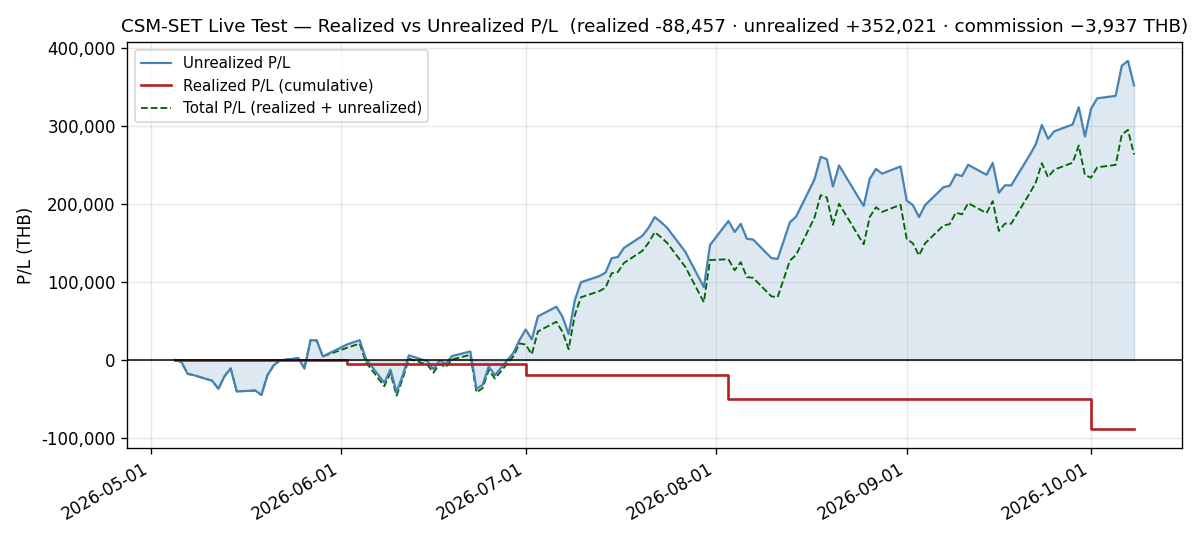
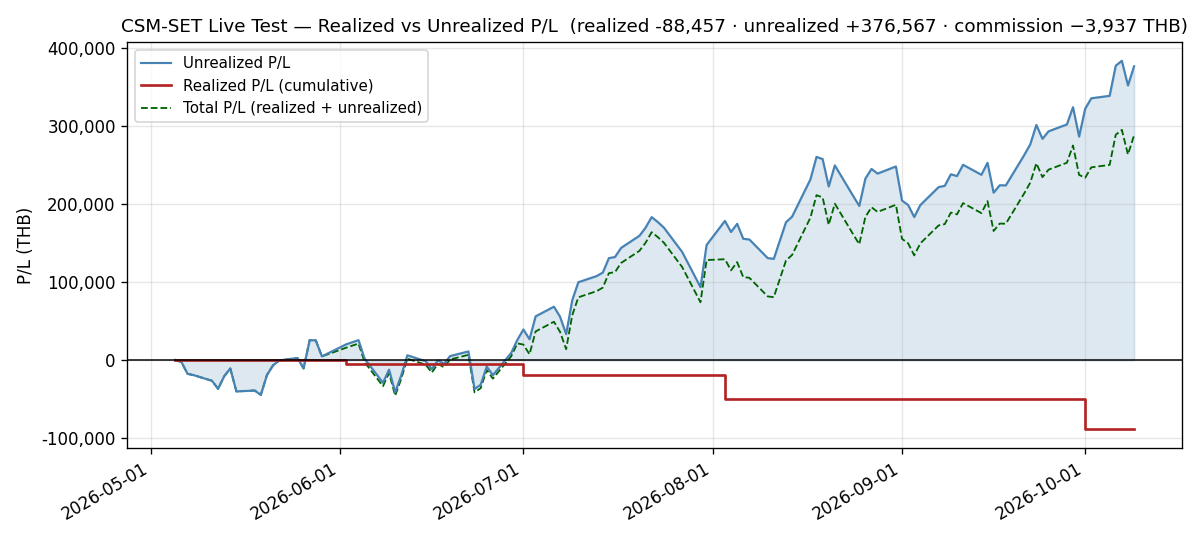
docs(live-test): add daily log for 2026-10-09 — NAV +1.78% back to 6,984.00 below the high; INSET 3,494.98 from the ceiling
NAV 1,406,499.89, +24,546.00 (+1.7762%), recovering most of Thursday's fall; Total Return on NAV
+25.58%; 8 up / 2 down. INSET +5.56% to 4.94 (its highest close since 2026-08-27) is the largest
position again and 3,494.98 THB inside the 15% ceiling; KCE's U.PL back above +100%. Accepted D2
breaches widened: ETRON 36.5802% (22,225.04 over), CNT 4.1925% (11,356.99 under, the deepest of the
breach on a day CNT rose), TK-0279. pnl.csv to 109 rows. Every figure is pre-registration history,
seen, not scored.

Claude-Session: https://claude.ai/code/session_01VKyqnmKmz6Hh9ErHRFMhFr

diff --git a/docs/live-test/daily/2026-10-09.md b/docs/live-test/daily/2026-10-09.md
@@ -1,0 +1,171 @@
+# Daily Log — 2026-10-09 (Friday)
+
+**As of:** 2026-10-09, Asia/Bangkok
+**Phase:** C — Extended Observation
+**Day:** 110 / 53 trading days remaining in 2026
+**Status:** 🔴 **PRE-REGISTRATION HISTORY — SEEN, NOT SCORED.** The operator's 2026-09-11 forward-only decision stands and **no scoring criteria have been pre-registered since**, so every figure below carries that label. 🟢 **NAV closes at 1,406,499.89 THB, up +24,546.00 (+1.7762%)** with no trades, recovering most of Thursday's fall and closing **6,984.00 (−0.4941%) below the 2026-10-07 high**. Total Return on NAV is **+25.58%**. Breadth is **8 up, 2 down, 0 flat** against a SET that rose **+0.4482%**. 🟢 **INSET +5.56% closed at 4.94, its highest close since 2026-08-27, in its best session since 2026-08-18**, supplied 44.49% of the day and is the largest position again. ⚠ **INSET is now 3,494.98 THB inside the 15% ceiling.** 🔴 **Both accepted violations widened: ETRON 36.5802%, 22,225.04 THB over the 35% cap, and CNT 4.1925%, 11,356.99 THB under the 5% floor — the deepest of its breach although CNT rose.**
+
+---
+
+## Execution Summary
+
+**No trades today.** The October rotation was executed at the **2026-10-01 ATO** (SELL MGC, BUY CNT; `configs/live_portfolio.yaml` at `715eeb3`), so the file is unchanged since then and remains valid. Realized P/L for the session is **0.00 THB** and no commission was paid. **Neither end of the band creates a trade, and neither does the sector cap**: both are applied when the book is constructed, and there is no high-water-mark rule. The next rebalance evaluation is **2026-10-30**, twelve sessions away.
+
+---
+
+## Portfolio Snapshot
+
+> 🔴 **Every figure in this section is PRE-REGISTRATION HISTORY — NOT SCORED.** It is produced from the **reconstructed series** (`csm.adapters.hooks._reconstruct_live_equity`, which reprices `configs/live_portfolio.yaml` against `data/processed/prices_latest.parquet`) and reconciled against **`db_gateway.daily_performance`**. Where a number below is quoted from a stored series, the series is named.
+
+`Avg Cost` is the commission-inclusive per-share basis carried from `configs/live_portfolio.yaml` (4-decimal precision); `Cost Basis = shares × Avg Cost`, and `U.PL % = MV / Cost Basis − 1`. Per-symbol values reproduce the broker statement exactly.
+
+| # | Symbol | Shares | Avg Cost | Last Price | Market Value (THB) | Cost Basis (THB) | U.PL % |
+|---|--------|-------:|---------:|-----------:|--------------------:|-----------------:|-------:|
+| 1 | KCE | 2,600 | 39.0655 | 78.75 | 204,750.00 | 101,570.30 | +101.58% |
+| 2 | GUNKUL | 30,800 | 2.9246 | 5.00 | 154,000.00 | 90,077.68 | +70.96% |
+| 3 | INSET | 42,000 | 3.0848 | 4.94 | 207,480.00 | 129,561.60 | +60.14% |
+| 4 | HANA | 3,000 | 35.8070 | 52.25 | 156,750.00 | 107,421.00 | +45.92% |
+| 5 | IRPC | 56,600 | 2.3037 | 2.94 | 166,404.00 | 130,389.42 | +27.62% |
+| 6 | EASTW | 24,000 | 4.2672 | 4.88 | 117,120.00 | 102,412.80 | +14.36% |
+| 7 | EPG | 17,300 | 5.9099 | 6.50 | 112,450.00 | 102,241.27 | +9.98% |
+| 8 | SMT | 20,400 | 5.8097 | 7.50 | 153,000.00 | 118,517.88 | +29.09% |
+| 9 | FORTH | 5,300 | 16.1270 | 14.00 | 74,200.00 | 85,473.10 | −13.19% |
+| 10 | CNT | 18,200 | 3.3456 | 3.24 | 58,968.00 | 60,889.92 | −3.16% |
+
+### Portfolio summary
+
+| Metric | Value |
+|--------|-------|
+| Total Cost Basis | 1,028,554.97 THB |
+| Total Market Value | 1,405,122.00 THB |
+| Unrealized P/L | +376,567.03 THB (+36.61%) |
+| Realized P/L (today) | **0.00 THB** |
+| Realized P/L (cumulative, since inception) | **−88,456.67 THB** |
+| Commission paid (cumulative) | **−3,936.97 THB** |
+
+### Account summary
+
+| Metric | Value |
+|--------|-------|
+| Remaining Cash | 1,377.89 THB |
+| Total NAV | 1,406,499.89 THB |
+| Total Return on NAV | +25.58% |
+
+> **Cost-basis note:** Total Cost Basis is unchanged at **1,028,554.97 THB** since the 2026-10-01 rotation, and the reconciliation delta against Σ per-symbol (`shares × avg_cost`, 4-dp) is **0.00 THB**.
+>
+> ⚠ **Above/below cost: 8 up / 2 down, unchanged**, with only **FORTH** and **CNT** below. **KCE's +101.58%** is above +100% for the second time, after 2026-10-07. **INSET's +60.14%** is its highest since the +61.44% of 2026-08-27, on its highest close since that date.
+>
+> **Dispersion widened to 114.77pp** (KCE +101.58% to FORTH −13.19%), from 110.97pp, at both ends: the leader KCE gained **2.56pp** of cost and the laggard FORTH lost **1.24pp**.
+>
+> **Total P/L check:** realized + unrealized = −88,456.67 + 376,567.03 = **+288,110.36 THB**, up from +263,564.36 by exactly the +24,546.00 session move.
+
+---
+
+## Day-over-Day Change (vs Thursday October 8)
+
+| Symbol | Oct 8 Close | Oct 9 Close | Change | Change % | MV Contribution (THB) |
+|--------|------------:|------------:|-------:|---------:|----------------------:|
+| INSET | 4.68 | 4.94 | +0.26 | +5.56% | +10,920.00 |
+| SMT | 7.20 | 7.50 | +0.30 | +4.17% | +6,120.00 |
+| HANA | 51.25 | 52.25 | +1.00 | +1.95% | +3,000.00 |
+| KCE | 77.75 | 78.75 | +1.00 | +1.29% | +2,600.00 |
+| GUNKUL | 4.92 | 5.00 | +0.08 | +1.63% | +2,464.00 |
+| EPG | 6.40 | 6.50 | +0.10 | +1.56% | +1,730.00 |
+| EASTW | 4.82 | 4.88 | +0.06 | +1.24% | +1,440.00 |
+| CNT | 3.20 | 3.24 | +0.04 | +1.25% | +728.00 |
+| FORTH | 14.20 | 14.00 | -0.20 | -1.41% | -1,060.00 |
+| IRPC | 3.00 | 2.94 | -0.06 | -2.00% | -3,396.00 |
+| **Total** | | | | **+1.78%** | **+24,546.00** |
+
+**Breadth: 8 up, 2 down, 0 flat.**
+
+> The `Change %` on the Total row is the **market-value** change (+24,546.00 / 1,380,576.00 = +1.7780%), not the NAV change (+24,546.00 / 1,381,953.89 = +1.7762%). The two differ only because cash sits in the NAV denominator and not in the market-value one.
+
+**The risers' 29,002.00 outran the fallers' −4,456.00.** **INSET +5.56% (+10,920.00)** closed at **4.94, its highest close since 2026-08-27**, in its best session since 2026-08-18. **SMT +4.17% (+6,120.00)**, **HANA +1.95% (+3,000.00)** and **KCE +1.29% (+2,600.00)** followed, and **CNT +1.25% (+728.00)** recovered part of Thursday's fall. Against them, **IRPC −2.00% (−3,396.00)** had its worst session since 2026-09-30 and **FORTH −1.41% (−1,060.00)** slipped back. **The book rose +1.7762% against a SET that rose +0.4482%**, a **+1.3280pp** difference that is a same-session arithmetic result, not a performance comparison (Market Context).
+
+---
+
+## Market Context
+
+| Indicator | Value | Source |
+|-----------|-------|--------|
+| SET Index | 1,577.65 | tvkit (TradingView) |
+| SET Open / High / Low | 1,573.84 / 1,578.47 / 1,569.59 | tvkit |
+| SET 200-day SMA | 1,494.9204 | tvkit (TradingView) |
+| Regime Estimate | BULL | SET +5.53% above SMA200 |
+
+> ⚠ **This is context, NOT a benchmark comparison, and it must not be read as one.** `SET:SET` is a **price index**; the strategy series above is priced on **dividend-adjusted** bars (since `e04a292`, 2026-08-09). The two are not on the same basis, the difference is one-sided in the strategy's favour, and it is not small — measured 2026-09-11 over 2024-03-19 → 2026-09-10, the dividend adjustment is worth **+12.09 percentage points** on this universe, roughly **+4.8%/yr**. The engine's own benchmark loader is also given **no date bounds**, so it compares **600 index points — from 2024-04-22 in today's panel, a start that moves forward one session per session** — against a strategy series that starts at the 2026-10-01 `entry_date`. **No alpha, excess return or outperformance figure is computed anywhere in this log.**
+
+---
+
+## Regime State
+
+- **Detected regime:** BULL — SET (1,577.65) is above SMA200 (1,494.9204) by +5.5340%
+- **SMA200 position:** 1,494.9204 — SET closing at 1,577.65
+- **3-month return:** −1.65% (window-sensitive — see Notes)
+- **No regime-driven action.** The regime filter is evaluated at the month-end rebalance, not intra-month. The next evaluation is **2026-10-30**.
+
+**The SET path from the 2026-09-08 high reads 1,621.89 → 1,617.89 → 1,615.07 → 1,604.52 → 1,591.07 → 1,578.66 → 1,562.73 → 1,583.34 → 1,584.15 → 1,598.03 → 1,604.44 → 1,610.70 → 1,602.58 → 1,607.63 → 1,602.37 → 1,594.30 → 1,559.01 → 1,563.91 → 1,571.62 → 1,576.45 → 1,582.22 → 1,584.63 → 1,570.61 → 1,577.65** — a **+7.04 point, +0.4482%** session, the index's best since 2026-10-02, leaving it **−2.7277%** below the 2026-09-08 high. Today's range was **8.88 points**, the narrowest since 2026-01-07. **Cushion rose 5.1769% → 5.5340%, a +0.3571pp step**, as SMA200 rose again to **1,494.9204** (+1.6177). **A BULL→BEAR crossing needs the index 82.73 points lower — a further −5.24% at today's SMA200.**
+
+The 3-month figure rose from −2.86% to −1.65%, on the session and because its start bar moved from 2026-07-06 (1,616.88) to 2026-07-07 (1,604.13).
+
+---
+
+## Sector Concentration
+
+Groupings are those of the 2026-10-01 rotation (CONS for CNT, SET-official) and are unchanged today; percentages are directly comparable to the prior session for every sleeve.
+
+| Sector | Market Value (THB) | % of NAV | Limit | Status |
+|--------|--------------------:|---------:|-------|--------|
+| Energy & Utilities (ENERG) | 437,524 | 31.1073% | 35% | OK — 54,750.96 THB of headroom |
+| Electronic Components (ETRON) | 514,500 | 36.5802% | 35% | 🔴 **OVER — 22,225.04 THB, accepted known violation** |
+| ICT | 281,680 | 20.0270% | 35% | OK |
+| Construction Materials (CONMAT) | 112,450 | 7.9950% | 35% | OK |
+| Construction Services (CONS) | 58,968 | 4.1925% | 5% floor | 🔴 **UNDER — 11,356.99 THB, accepted known violation** |
+
+🔴 **ETRON widened its excess again.** It rose **+0.1984pp to 36.5802%**, and the excess grew **19,096.14 → 22,225.04 THB**: the sleeve's market value rose 11,720.00 (SMT +6,120.00, HANA +3,000.00, KCE +2,600.00) while the cap rose 8,591.10 with NAV. [[TK-0279]]
+
+🔴 **CNT's gap widened to the deepest of the breach although CNT rose.** CONS fell **−0.0218pp to 4.1925%**, the lowest weight of the breach, and the gap grew **10,857.69 → 11,356.99 THB**: CNT's +728.00 against a floor that rose 1,227.30 with NAV. **CNT clears at 3.8969, +20.27%.** [[TK-0279]]
+
+**ICT rose +0.3577pp to 20.0270%** on INSET, against FORTH's fall. **ENERG fell −0.5158pp to 31.1073%** on IRPC. **CONMAT eased −0.0168pp to 7.9950%** although EPG rose, because NAV rose faster. The two large sleeves hold **67.6875% of NAV** together.
+
+**At the ceiling end, INSET is the largest position again** — **14.7515%**, 3,494.98 THB inside the 15% ceiling, over at **5.0379 (+1.98%)** — 2,730.00 THB above KCE, at **14.5574%**, 6,224.98 THB inside, over at **81.5667 (+3.58%)**. 🟢 **At the floor end, FORTH is 5.2755%, 3,875.01 THB above the 5% floor, and goes under at 13.2304 (−5.50%).**
+
+---
+
+## Risk Notes
+
+1. 🔴 **PRE-REGISTRATION HISTORY — SEEN, NOT SCORED (operator decision, 2026-09-11, unchanged).** The track record restarts forward-only, and **scoring criteria are still pending an operator pre-registration**: checked for this log across the strategy repo, the ticket store and the umbrella, and **none has been recorded**. The EMA100 definition remains deferred to that pre-registration (operator decision D1, 2026-09-30).
+2. 🟢 **NAV rose +24,546.00 (+1.7762%) to 1,406,499.89.** It stands **6,984.00 (−0.4941%) below the 2026-10-07 high** (`daily_performance`). Total Return on NAV is **+25.58%**.
+3. 🔴 **ACCEPTED KNOWN VIOLATION — ETRON 36.5802%, 22,225.04 THB over the 35% cap** (operator decision D2). It widened from 19,096.14 without a trade, as SMT, HANA and KCE rose. **No action is recommended and none has been sized.** [[TK-0279]]
+4. 🔴 **ACCEPTED KNOWN VIOLATION — CNT 4.1925%, 11,356.99 THB under the 5% floor and the whole CONS sleeve** (D2), **the deepest of the breach**. It widened from 10,857.69 on a day CNT rose, because the floor rose faster; CNT clears at **3.8969 (+20.27%)**. [[TK-0279]]
+5. ⚠ **INSET IS 3,494.98 THB FROM THE 15% CEILING.** At **14.7515%** after its best session since 2026-08-18, it goes over at **5.0379 (+1.98%)** — closer than KCE was on 2026-10-07 (4,672.58 THB). A ceiling breach would sit outside D2, which named only CNT's floor breach and ETRON's cap breach; like every band breach, it would produce no trade before the 2026-10-30 construction. **No action is recommended and none has been sized.** [[TK-0279]]
+6. 🟢 **`equity_curve` and `daily_performance` agree on the new day**, both **1,406,499.89**. The 2026-10-01 rows still differ by 2,385.81 by design (post-trade against pre-trade).
+7. 🟢 **Today's `daily_return` (+1.7762%) equals this log's headline.** ⚠ `cumulative_return` is anchored to the 2026-10-01 `entry_date` and reads **+4.01%** against a true **+25.58%**, and `combined_drawdown` still reads **−2.23%** — the maximum drawdown inside the post-`entry_date` window, set on 2026-10-08, not today's −0.49% distance from the high. Both are the documented truncations, not new defects.
+8. 🟢 **Circuit-breaker buffer 24.35% of NAV.** The 5% breaker trips at **1,064,000 THB**; NAV sits **+342,499.89 above it**. **NAV is 0.49% off peak.** The rolling `circuit_breaker.trigger_threshold` is −10% over 60 days; −0.49% is clear.
+9. 🟢 **The refresh ran clean**: attempt 1 recovered all 201 universe symbols (`requested=201 recovered=201 still_failing=0`) in **125.942s**, and **no symbol failed** (`failures=0`, `held_symbols_failed=0`). The container has not restarted since the 2026-10-06 reboots.
+10. 🟢 **The uncredited dividend total holds at 8,927.00 THB** — KCE 1,560.00, INSET 2,100.00, MGC 2,208.00, FORTH 795.00, IRPC 2,264.00. **0.63% of NAV** and **3.10%** of the +288,110.36 total P/L. There is still no dividend-accrual path anywhere in the book. Carried to the operator's October decision.
+11. **INFRA (carried) — the container publishes `:8100` on all interfaces while private-mode auth is disabled.** `CSM_API_KEY` is absent from the container environment and `CSM_PUBLIC_MODE=false`. **Risk tier: low-moderate and LAN-scoped.** Two low-risk options, operator's call: bind to `127.0.0.1:8100:8000`, or set `CSM_API_KEY`. A recreate is required for the first and has not occurred. **Forty-second consecutive log.**
+12. ⚠ **DOC — the `csm-set-daily-log` skill's `daily_return` guidance remains stale.** Its Step 3 still calls the field *"an open defect, not yet fixed in code"*; **it was fixed 2026-09-02**. Today `daily_return` reads **+1.7762%** and agrees with this log's headline exactly. **Twenty-fourth log to carry this.**
+13. **Open decisions carried to the October evaluation (2026-10-30, twelve sessions away)**: the EMA100 definition (D1), the drift question at every end of the bands (Risk Notes 3, 4, 5; [[TK-0279]]), fix-notional-not-shares, restate-vs-cutover for price history, and dividend accrual (Risk Note 10).
+
+---
+
+## Notes
+
+- **Scheduled refresh completed via APScheduler with zero failures.** `"Scheduled daily_refresh completed"` at **2026-10-09T11:02:07Z** (18:02 BKK) — the 18:00 cron firing, not a manual `POST /api/v1/scheduler/run/daily_refresh`. Receipt: `symbols_fetched=211, failures=0, duration_seconds=125.942, held_symbols_fetched=10, held_symbols_failed=0, retry_attempts_used=0, index_fetched=true`, corroborated by `results/.tmp/last_refresh.json`. The held phase ended `requested=10 recovered=10 still_failing=0` at 11:00:07Z. The next run is scheduled for **2026-10-12 18:00 +07**.
+- **The container has run since the 2026-10-06 reboots** (`StartedAt` 2026-10-06T03:46:34Z, no restart since; `Created` 2026-09-01, unchanged), and the host has not rebooted again (`uptime -s` 2026-10-06 10:46:02).
+- **`SET:THCOM` was fetched with 600 bars again.**
+- **The price panel and the prior log agree on all ten names**, so **nothing was restated**.
+- **The panel's row count fell 921 → 920**, every row still carries a 09:55 Bangkok stamp, and the column count is unchanged at **211**, with no duplicated session date.
+- **Row-integrity checks pass.** `db_csm_set.equity_curve` holds **exactly one row per trading day at `00:00:00+00`** — 109 rows, 109 dates, none off midnight — and today's row equals `daily_performance.total_value`.
+- **`configs/live_portfolio.yaml` is unchanged** since the 2026-10-01 rotation (`715eeb3`).
+- **The P/L identity holds and its residual is unchanged.** `realized_cum + unrealized − (NAV − starting_nav)` = −88,456.67 + 376,567.03 − 286,499.89 = **1,610.47 THB**, the value it stepped to at the 2026-10-01 rotation.
+- **Every figure was verified rather than asserted.** Σ position market value equals Total Market Value exactly (1,405,122.00); **Total NAV (1,406,499.89) equals `db_gateway.daily_performance.total_value` to the satang**; Σ (shares × price change) equals the market-value change (+24,546.00) exactly; the sector table sums to Total Market Value exactly; Σ per-symbol cost basis matches Total Cost Basis with a **0.00** delta; the position count is 10. All money arithmetic used `Decimal` with explicit half-up rounding (ETRON **36.5802%**, **22,225.04 THB** over the cap; CNT **4.1925%**, **11,356.99 THB** under a 70,324.99 floor, clearing at **3.8969**; FORTH **5.2755%**, under at **13.2304**; INSET **14.7515%**, over at **5.0379**; KCE **14.5574%**, over at **81.5667**).
+- **Realized P/L and commission ledger — both unchanged, no trades today.** Realized cumulative **−88,456.67 THB** (2026-06-02 −4,351.87 · 2026-07-01 −14,964.06 · 2026-08-03 −29,775.45 · 2026-10-01 −39,365.29). Commission cumulative **−3,936.97 THB**.
+- **Capital events to date, unchanged.** `starting_nav` 1,120,000 after 1,000,000 → 1,100,000 (2026-06-04, +100,000) → 1,120,000 (2026-08-03, +20,000). The 2026-10-01 rotation added no capital.
+- **Every superlative was computed, and each names its window.** The since-dates for INSET's close, session and U.PL, KCE's second +100% reading and the other best-since and worst-since dates are measured **since 2026-08-03**, checked against all 48 prior published logs and, for prices, against the panel from 2026-08-03. The CNT and CONS readings are measured over the breach that began on 2026-10-01. The peak comes from the full `db_gateway.daily_performance` series. The index figures are measured over bars fetched back to 2024-09-18.
+- **3-month return figure is window-sensitive.** −1.65% is measured over the trailing 66 bars from today's close (start bar 2026-07-07, 1,604.13) and moves materially with the start bar (Regime State). The regime estimate does not use it.
+- **Follow-ups for the next session (Monday 2026-10-12 18:00 +07).** (a) INSET against the 15% ceiling — over at 5.0379; (b) ETRON against the 35% cap — 22,225.04 THB over; (c) CNT against the 5% floor — it clears at 3.8969; (d) FORTH against the 5% floor — under at 13.2304. **The four follow-ups from 2026-10-08 are closed above** — (a) Risk Note 5 and Sector Concentration, (b) Risk Note 3, (c) Risk Note 4, (d) Sector Concentration.
+- **Calendar.** 2026-10-09 was a trading session; the banked SET holiday calendar (`results/.tmp/set_holidays.json`, read at `captured_at 2026-10-09T11:47:18Z`) lists the next 2026 closure as **2026-10-13**, and the October evaluation, its last trading day, is **2026-10-30**. No trading hours are stated anywhere in this log.
+- Data fetched via tvkit (TradingView, free tier) — all 10 held-symbol prices from the 18:00 BKK scheduled-cron refresh; SET Index context anchored explicitly to the 2026-10-09 bar. ⚠ **The vendor back-adjusts a symbol's entire history on an ex-dividend date**, so any prior-session price quoted here is the vendor's *current* view of that session and not necessarily what was published at the time.

diff --git a/docs/live-test/graphs/README.md b/docs/live-test/graphs/README.md
@@ -3,7 +3,7 @@
 _🟢 **All four PNGs are on ONE date — the September month-end, 2026-09-30.** The three **NAV** charts
 (`equity_curve`, `drawdown`, `monthly_returns`) were regenerated on 2026-09-30 from `nav_actual.csv` /
 `nav_twr.csv` extended to **102 points** (2026-05-04 → 2026-09-30). `pnl_realized_unrealized.png` is newer:
-regenerated on 2026-10-08 from `pnl.csv` (**108 rows**, through 2026-10-08; its newest realized step is the 2026-10-01 rotation's). ⚠ **The September rows of the two NAV CSVs
+regenerated on 2026-10-09 from `pnl.csv` (**109 rows**, through 2026-10-09; its newest realized step is the 2026-10-01 rotation's). ⚠ **The September rows of the two NAV CSVs
 come from `db_gateway.daily_performance`, not `equity_curve`** — IRPC's 2026-09-09 restatement rewrote the
 `equity_curve` rows it would otherwise have supplied; see the 2026-09-30 History entry. `pnl.csv` is built
 from the daily logs' figures (the un-restated `daily_performance` basis), so it does not agree with
@@ -241,14 +241,25 @@ restatement has rewritten `equity_curve` rows inside the month being appended, *
 | `monthly_returns.png` | May **+0.33%** · Jun **+1.44%** · Jul **+9.53%** · Aug **+5.68%** · Sep **+2.90%** (no flow in September, so the TWR and actual-NAV figures agree) |
 | **August bar is the TWR figure** | **+5.68%**, NOT the reported +7.40% and NOT the ex-injection +5.77%. Feeding `nav_actual.csv` instead reproduces the documented failure mode — **Jun +11.62%** and Aug +7.40% |
 | June bar vs the June review | must read **+1.44%**, not +11.62% |
-| `pnl_realized_unrealized.png` *(the 2026-10-08 PNG, through 10-08)* | realized **−88,456.67** · unrealized **+352,021.03** · commission **−3,936.97** THB; the realized line is **flat except at 2026-06-02, 2026-07-01, 2026-08-03 and 2026-10-01** — **four** steps. *(The 2026-10-07 PNG read the same realized and commission with unrealized +383,551.03 at 107 points; the 2026-10-06 PNG +377,303.03 at 106; the 2026-10-05 PNG +338,709.03 at 105; the 2026-10-02 PNG +335,559.03 at 104; the 2026-10-01 PNG +322,278.03 at 103.)* *(The 2026-08-31 PNG read:* realized **−49,091.38** · unrealized **+248,232.35** · commission **−3,735.16** THB; the realized line is **flat except at 2026-06-02, 2026-07-01 and 2026-08-03** — **three** steps.) *(The superseded 2026-08-28 render showed −49,091.38 / +239,078.35 at 79 points; the 2026-08-27 one showed −49,091.38 / +245,069.35 at 78 points; the 2026-08-26 one showed −49,091.38 / +232,605.35 at 77 points; the 2026-08-25 one showed −49,091.38 / +197,671.35 at 76 points; the 2026-08-24 one showed −49,091.38 / +210,441.35 at 75 points; the 2026-08-21 one showed −49,091.38 / +249,619.35 at 74 points; the 2026-08-20 one showed −49,091.38 / +222,599.35 at 73 points; the 2026-08-19 one showed −49,091.38 / +257,693.35 at 72 points; the 2026-08-18 one showed −49,091.38 / +260,527.35 at 71 points; the 2026-08-17 one showed −49,091.38 / +231,713.35 at 70 points; the 2026-08-14 one −49,091.38 / +183,951.35 at 69 points; the 2026-08-12 one −49,091.38 / +129,844.35 at 67 points; the 2026-08-01 one −19,315.93 / +147,665.89 / −3,052.51 and only two steps.)* |
-| `pnl.csv` last row *(the CSV and the P/L PNG are in sync — see the header)* | 2026-10-08: realized **−88,456.67** · unrealized **+352,021.03** · total **+263,564.36** · commission **3,936.97** THB; **108 rows**, matching `equity_curve`'s 108 **in row count only** *(↻ this row read 2026-08-31 / 80 rows until 2026-10-02: the September daily runs extended the CSV without updating it; it is updated with each session's History entry since)* — the values diverge historically after the KCE, INSET, MGC *and* FORTH restatements (see the header caveat) |
+| `pnl_realized_unrealized.png` *(the 2026-10-09 PNG, through 10-09)* | realized **−88,456.67** · unrealized **+376,567.03** · commission **−3,936.97** THB; the realized line is **flat except at 2026-06-02, 2026-07-01, 2026-08-03 and 2026-10-01** — **four** steps. *(The 2026-10-08 PNG read the same realized and commission with unrealized +352,021.03 at 108 points; the 2026-10-07 PNG +383,551.03 at 107; the 2026-10-06 PNG +377,303.03 at 106; the 2026-10-05 PNG +338,709.03 at 105; the 2026-10-02 PNG +335,559.03 at 104; the 2026-10-01 PNG +322,278.03 at 103.)* *(The 2026-08-31 PNG read:* realized **−49,091.38** · unrealized **+248,232.35** · commission **−3,735.16** THB; the realized line is **flat except at 2026-06-02, 2026-07-01 and 2026-08-03** — **three** steps.) *(The superseded 2026-08-28 render showed −49,091.38 / +239,078.35 at 79 points; the 2026-08-27 one showed −49,091.38 / +245,069.35 at 78 points; the 2026-08-26 one showed −49,091.38 / +232,605.35 at 77 points; the 2026-08-25 one showed −49,091.38 / +197,671.35 at 76 points; the 2026-08-24 one showed −49,091.38 / +210,441.35 at 75 points; the 2026-08-21 one showed −49,091.38 / +249,619.35 at 74 points; the 2026-08-20 one showed −49,091.38 / +222,599.35 at 73 points; the 2026-08-19 one showed −49,091.38 / +257,693.35 at 72 points; the 2026-08-18 one showed −49,091.38 / +260,527.35 at 71 points; the 2026-08-17 one showed −49,091.38 / +231,713.35 at 70 points; the 2026-08-14 one −49,091.38 / +183,951.35 at 69 points; the 2026-08-12 one −49,091.38 / +129,844.35 at 67 points; the 2026-08-01 one −19,315.93 / +147,665.89 / −3,052.51 and only two steps.)* |
+| `pnl.csv` last row *(the CSV and the P/L PNG are in sync — see the header)* | 2026-10-09: realized **−88,456.67** · unrealized **+376,567.03** · total **+288,110.36** · commission **3,936.97** THB; **109 rows**, matching `equity_curve`'s 109 **in row count only** *(↻ this row read 2026-08-31 / 80 rows until 2026-10-02: the September daily runs extended the CSV without updating it; it is updated with each session's History entry since)* — the values diverge historically after the KCE, INSET, MGC *and* FORTH restatements (see the header caveat) |
 | The August regeneration *(**done** 2026-08-12, **superseded** by the 2026-08-14, 2026-08-17, 2026-08-18, 2026-08-19, 2026-08-20, 2026-08-21, 2026-08-24, 2026-08-25, 2026-08-26, 2026-08-27, 2026-08-28 and then the 2026-08-31 render)* | ✅ satisfied — the current PNG title reads `realized -49,091 · unrealized +248,232 · commission −3,735 THB`, the series ends 2026-08-31 at 80 points, and the realized line steps **three** times. Verified by eye against the rendered image, not only from the generator's stdout |
 | Only ONE PNG may change on a P/L regeneration | ✅ `gen_pnl_chart.py:118` writes `pnl_realized_unrealized.png` and nothing else. Checksum the four PNGs before and after: the three NAV charts must be **byte-identical** and keep their 2026-08-01 mtimes. Verified 2026-08-14, 2026-08-17, 2026-08-18, 2026-08-19, 2026-08-20, 2026-08-21, 2026-08-24, 2026-08-25, 2026-08-26, 2026-08-27, 2026-08-28 and 2026-08-31 — only the P/L PNG's hash moved on all twelve |
 | P/L reconciliation | `realized_cum + unrealized − (NAV − capital)` = **1,610.47** from 2026-10-01 (**1,610.27** for 2026-08-03 → 2026-09-30, **1,609.61** for 2026-05-29 → 2026-07-31), and constant *within* each era; the 2026-10-01 step is **+0.20**, CNT's 4-dp `avg_cost` rounding. A *drifting* residual means a realisation was missed; the one-time **+0.66** step at the rotation is 4-dp `avg_cost` rounding — see above |
 | `commission_cum` | rises **only on the 7 fill dates** (05-05, 06-02, 06-04, 06-05, 07-01, 08-03, **10-01**); a rise on any other day means a non-trading day was credited with a fill |
 
 ## History
+
+**`pnl.csv` extended through 2026-10-09** on 2026-10-09, appending the **2026-10-09** row — one row,
+the sixth session of the rotated book. `realized_cum` and `commission_cum` are unchanged (no trade since
+the 2026-10-01 rotation), so the whole movement is the unrealized leg (+352,021.03 → **+376,567.03**,
+a **+24,546.00** session). `total_pl` (**+288,110.36**) stands 6,984.00 below the +295,094.36 maximum of
+2026-10-07. The reconciliation residual holds at **1,610.47**. **`pnl_realized_unrealized.png` was
+regenerated in the same session**, so the two artifacts end together at **109 points**; the four PNGs
+were checksummed (md5) before and after and the three NAV charts are byte-identical (`drawdown`
+02a92127…, `equity_curve` 7b1c0816…, `monthly_returns` a661bb50…), with only the P/L chart's hash moving
+(458934e8… → **f369763b…**). Every point in the series remains **pre-registration history — seen, not
+scored** under the operator decision of 2026-09-11; no scoring criteria have been pre-registered since.
 
 **`pnl.csv` extended through 2026-10-08** on 2026-10-08, appending the **2026-10-08** row — one row,
 the fifth session of the rotated book. `realized_cum` and `commission_cum` are unchanged (no trade since
